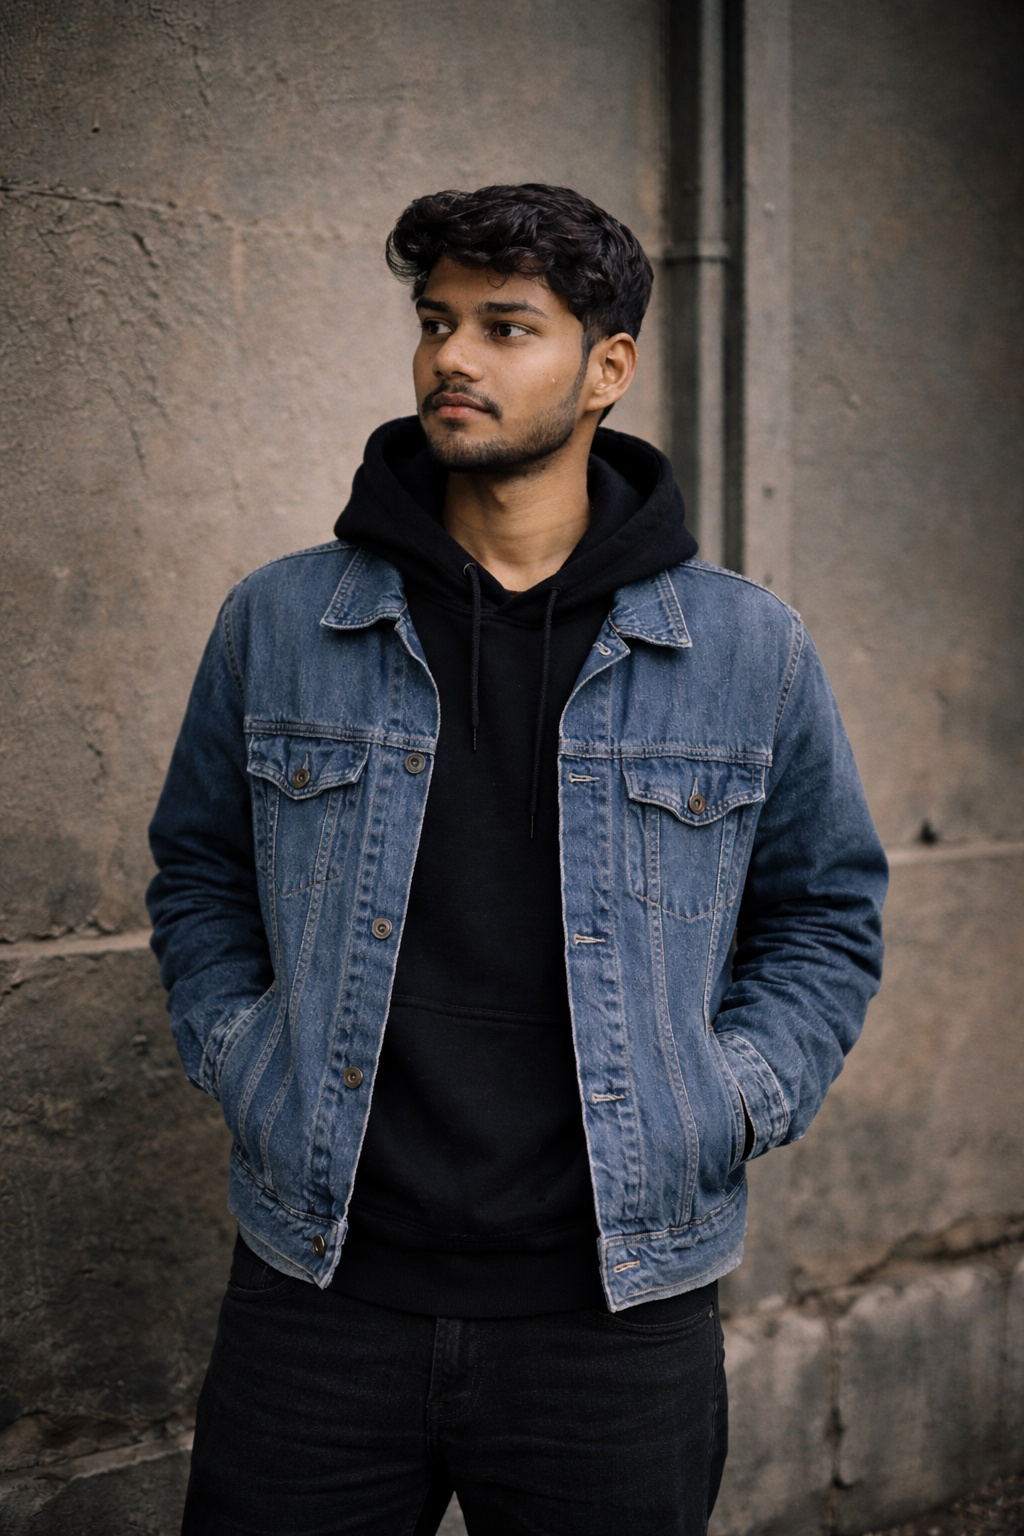
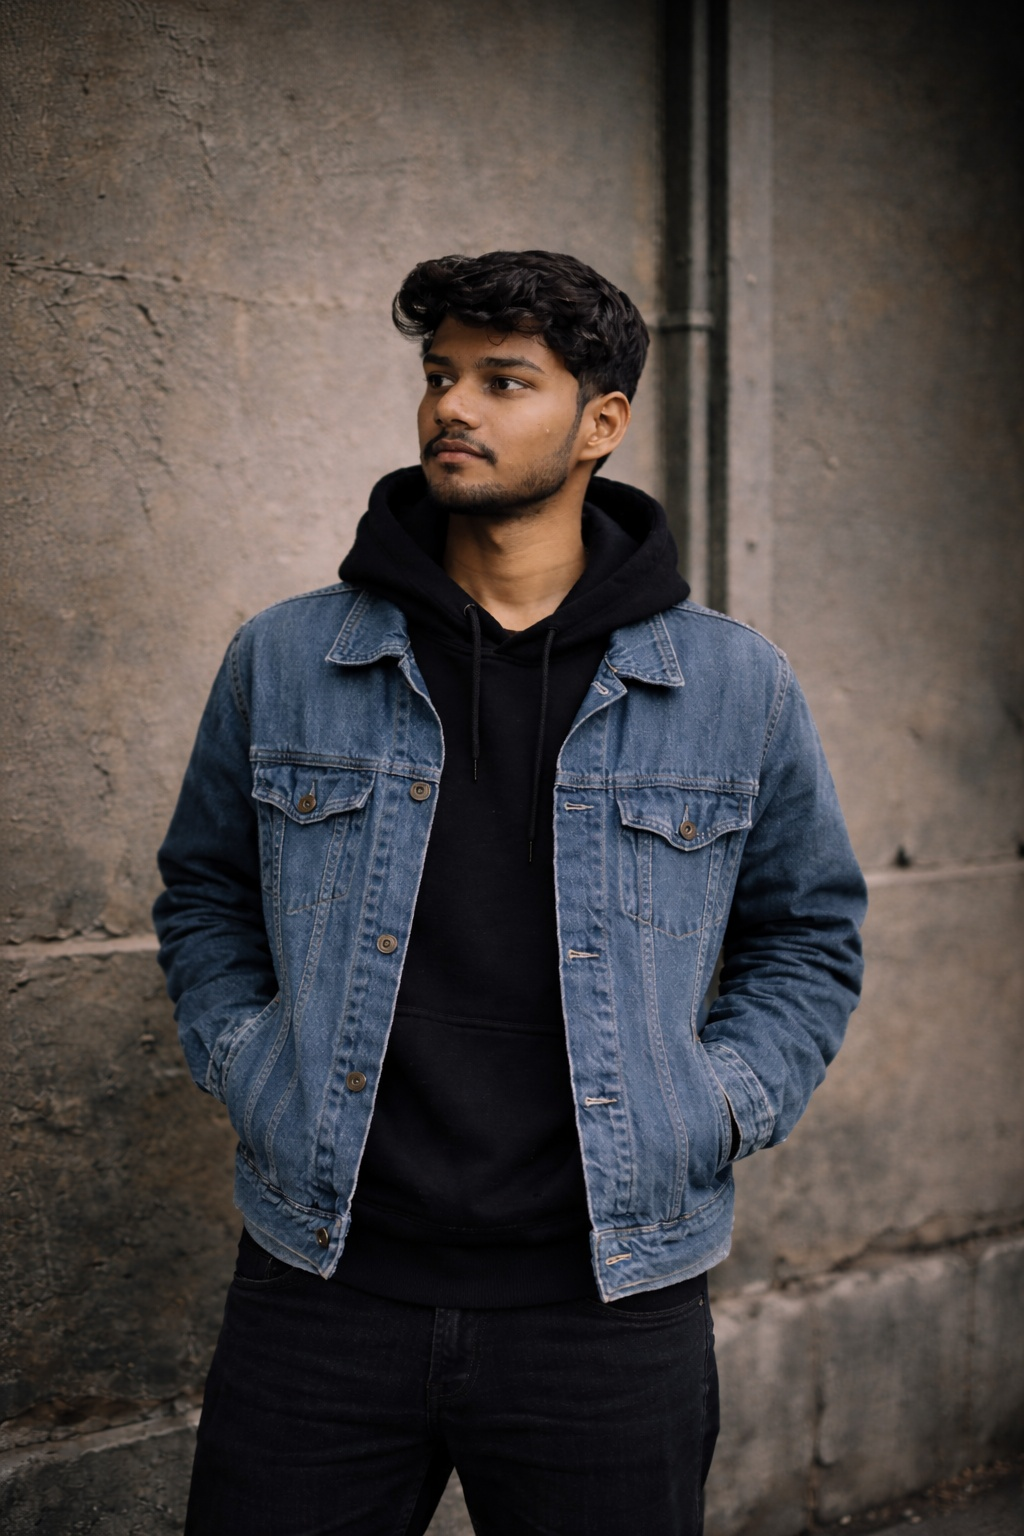
commit 111

diff --git a/component-library/shared/styles/3-modules/_gallery.scss b/component-library/shared/styles/3-modules/_gallery.scss
@@ -37,7 +37,6 @@
     overflow: hidden;
     background-size: cover;
     background-position: center;
-    background-color: $secondary-color;
   }
 
   &__image-wrap::before {
@@ -47,7 +46,7 @@
     background-image: inherit;
     background-size: cover;
     background-position: center;
-    filter: blur(28px) brightness(0.85);
+    filter: blur(28px) brightness(0.9);
     transform: scale(1.15);
     z-index: 1;
   }
@@ -65,7 +64,6 @@
     outline: none;
     border: none;
     box-shadow: none;
-    background: $background-color-alt;
   }
 
   &__count {
